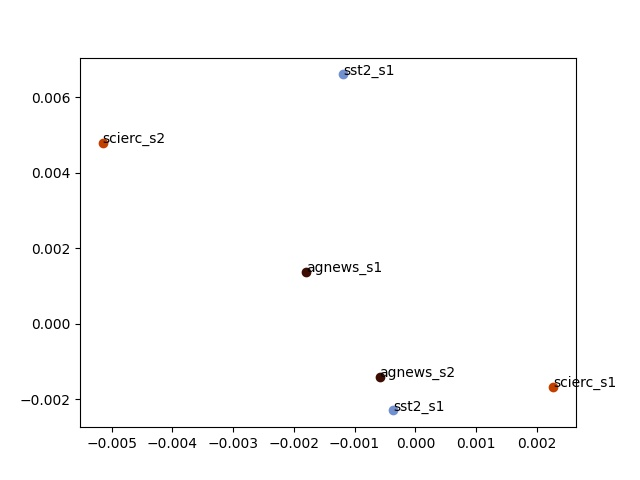
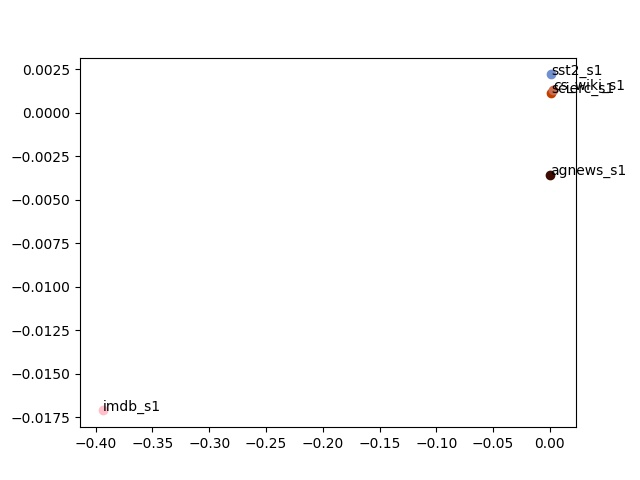
update

diff --git a/draw_cuda_mlmprompt_split.py b/draw_cuda_mlmprompt_split.py
@@ -141,14 +141,14 @@ imdb_s2_ten = torch.load(path).view(76800).to("cpu")
 
 #task_map={0:"restaurant",1:"laptop",2:"IMDB",3:"SST2",4:"MRPC"}
 #task_map={0:"sst2_s1",1:"sst2_s1",2:"agnews_s1",3:"agnews_s2",4:"scierc_s1",5:"scierc_s2",6:"cs_wiki_s1",7:"cs_wiki_s2",8:"imdb_s1",9:"imdb_s2"}
-task_map={0:"sst2_s1",1:"sst2_s1",2:"agnews_s1",3:"agnews_s2",4:"scierc_s1",5:"scierc_s2"}
+task_map={0:"sst2_s1",1:"agnews_s1",2:"scierc_s1",3:"cs_wiki_s1",4:"imdb_s1"}
 
 
 #92%
 #all_prompt_emb = torch.stack([sst2_ten,rte_ten,re_ten,MNLI_ten,MRPC_ten,QNLI_ten,QQP_ten,WNLI_ten,STSB_ten,laptop_ten,restaurant_ten,IMDB_ten])
 #all_prompt_emb = torch.stack([restaurant_ten, laptop_ten, IMDB_ten, sst2_ten, MRPC_ten])
 #all_prompt_emb = torch.stack([sst2_s1_ten, sst2_s2_ten, agnews_s1_ten, agnews_s2_ten, scierc_s1_ten, scierc_s2_ten, cs_wiki_s1_ten, cs_wiki_s2_ten, imdb_s1_ten, imdb_s2_ten])
-all_prompt_emb = torch.stack([sst2_s1_ten, sst2_s2_ten, agnews_s1_ten, agnews_s2_ten, scierc_s1_ten, scierc_s2_ten])
+all_prompt_emb = torch.stack([sst2_s1_ten,agnews_s1_ten,  scierc_s1_ten,cs_wiki_s1_ten,imdb_s1_ten])
 
 #100%
 
@@ -193,7 +193,8 @@ compressed_prompt_emb = compressed_prompt_emb.to("cpu").detach().numpy()
 
 #color_map={0:"#728FCE",1:"#347235",2:"#3D0C02",3:"#6B8E23",4:"#C04000",5:"QNLI",6:"#CB6D51",7:"#556B2F",8:"STSB",9:"#4863A0",10:"#151B8D"}
 #color_map={0:"#728FCE",1:"#347235",2:"#3D0C02",3:"#6B8E23",4:"#C04000",5:"#64CD64",6:"#CB6D51",7:"#556B2F",8:"#FFC0CB",9:"#4863A0",10:"#151B8D",11:"#00FFFF"}
-color_map={0:"#728FCE",1:"#728FCE",2:"#3D0C02",3:"#3D0C02",4:"#C04000",5:"#C04000",6:"#CB6D51",7:"#CB6D51",8:"#FFC0CB",9:"#FFC0CB"}
+#color_map={0:"#728FCE",1:"#728FCE",2:"#3D0C02",3:"#3D0C02",4:"#C04000",5:"#C04000",6:"#CB6D51",7:"#CB6D51",8:"#FFC0CB",9:"#FFC0CB"}
+color_map={0:"#728FCE",1:"#3D0C02",2:"#C04000",3:"#CB6D51",4:"#FFC0CB"}
 
 
 blocked_list = []
